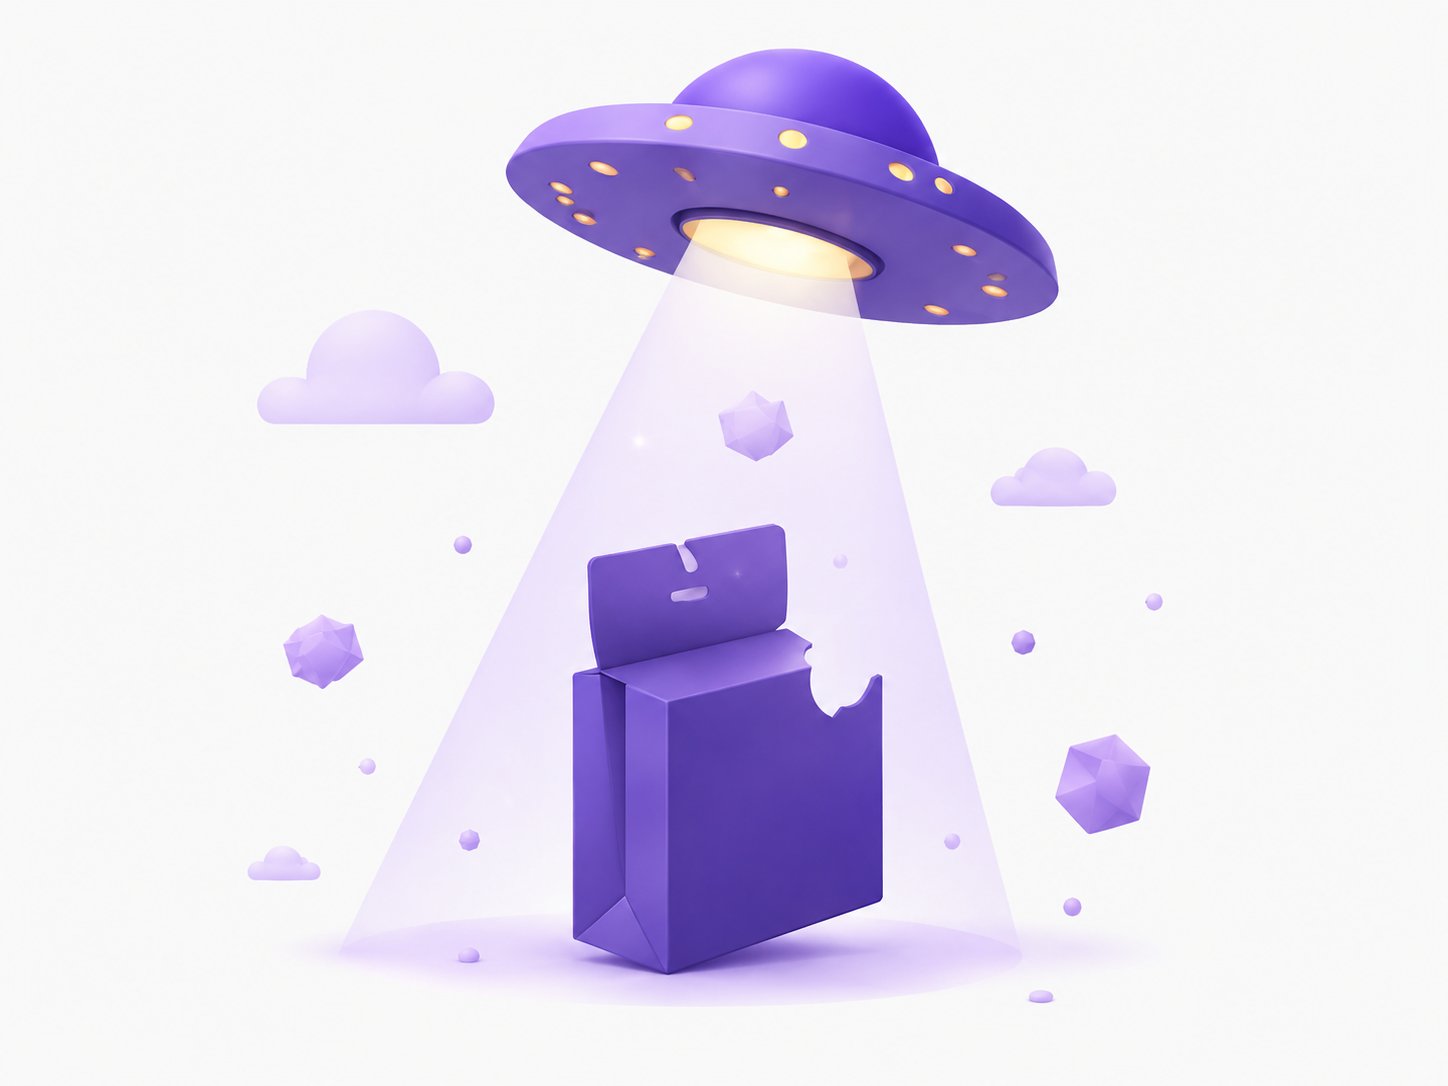
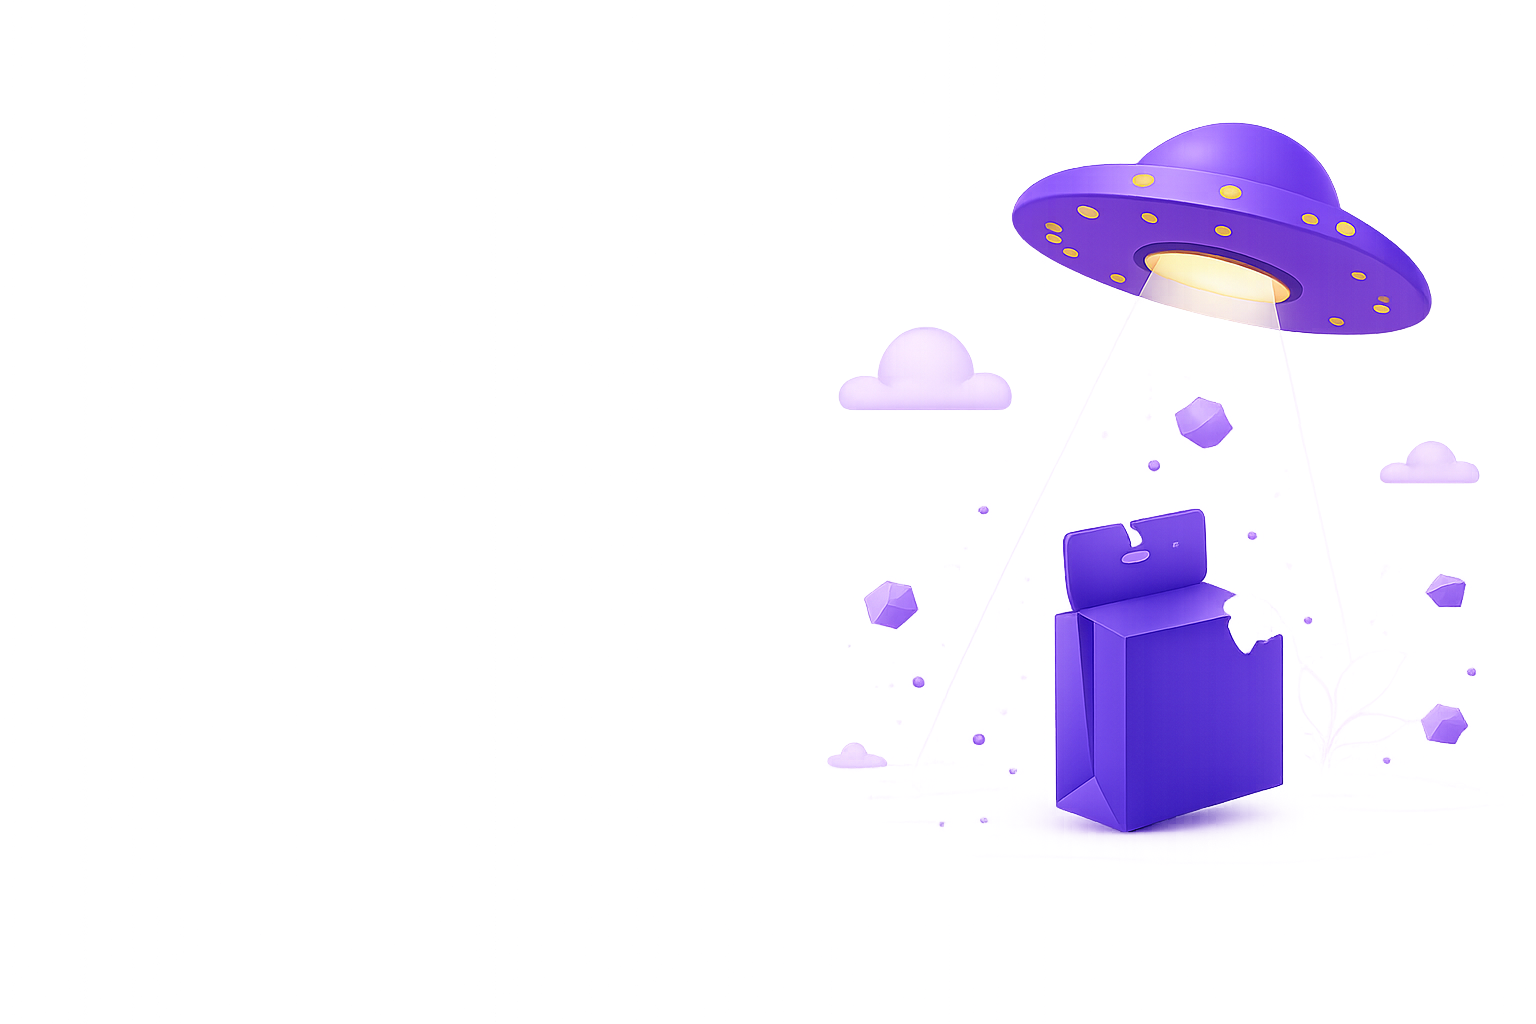
refactor: enhance 404 page layout and styles for improved responsiveness and visual appeal

diff --git a/src/app/pages/not-found/not-found.html b/src/app/pages/not-found/not-found.html
@@ -1,59 +1,62 @@
-<section class="min-h-screen bg-white text-text-primary">
-  <div class="grid min-h-screen grid-cols-1 lg:grid-cols-[40%_60%]">
-    <section class="flex flex-col bg-white px-6 py-5 sm:px-10 lg:px-14">
-      <header>
+<section
+  class="h-screen overflow-hidden bg-[linear-gradient(135deg,#ffffff_0%,#fbf9ff_48%,#f5efff_100%)] text-text-primary"
+>
+  <div class="mx-auto flex h-full w-full max-w-360 flex-col px-8 py-6 lg:px-16">
+    <header class="shrink-0">
+      <a
+        routerLink="/"
+        aria-label="Go to home page"
+        class="inline-flex items-center gap-2 text-sm font-bold text-text-primary no-underline"
+      >
+        <span class="flex h-5 w-5 items-center justify-center rounded bg-primary-main text-white">
+          <mat-icon class="h-4! w-4! text-base!">shopping_bag</mat-icon>
+        </span>
+        <span>ShopFront</span>
+      </a>
+    </header>
+
+    <div class="grid min-h-0 flex-1 items-center gap-4 lg:grid-cols-[38%_62%]">
+      <div class="flex min-w-0 flex-col items-start">
+        <h1
+          class="m-0 flex gap-8 font-sans! text-[7rem]! font-medium! leading-none! tracking-normal! text-text-primary sm:text-[10rem]! lg:text-[10rem]!"
+        >
+          <span>4</span>
+          <span class="text-primary-main">0</span>
+          <span>4</span>
+        </h1>
+
+        <h2 class="mt-8 text-3xl font-black leading-tight text-text-primary sm:text-4xl lg:text-[2.8rem]">
+          Страница не найдена
+        </h2>
+
+        <p class="mt-5! max-w-120 text-base leading-8 text-text-secondary sm:text-lg sm:leading-9">
+          К сожалению, запрашиваемая страница не существует или была удалена.
+        </p>
+
         <a
           routerLink="/"
-          aria-label="Go to home page"
-          class="inline-flex items-center gap-2 text-sm font-bold text-text-primary no-underline"
+          class="mt-10 inline-flex h-14 min-w-[18rem] cursor-pointer items-center justify-center gap-3 rounded-lg bg-primary-main px-8 text-base font-bold text-white no-underline shadow-[0_16px_32px_rgba(109,61,245,0.28)] transition hover:bg-primary-hover active:bg-primary-active"
         >
-          <span class="flex h-5 w-5 items-center justify-center rounded bg-primary-main text-white">
-            <mat-icon class="!h-4 !w-4 !text-base">shopping_bag</mat-icon>
-          </span>
-
-          <span>ShopFront</span>
+          <mat-icon class="h-5! w-5! text-xl!">home</mat-icon>
+          Вернуться на главную
         </a>
-      </header>
+      </div>
 
-      <main class="flex flex-1 items-center">
-        <div class="flex w-full max-w-[25rem] flex-col">
-          <h1 class="mb-8 !text-[7rem] !font-sans !font-bold !leading-none tracking-[-0.08em] text-text-primary sm:!text-[8rem] lg:!text-[9rem]">
-            4<span class="text-primary-main">0</span>4
-          </h1>
-          <div class="flex flex-col gap-6">
-            <h2 class="mt-5 text-4xl font-black leading-tight text-text-primary">
-              Страница не найдена
-            </h2>
+      <div class="relative hidden h-full min-h-0 items-center justify-end overflow-visible lg:flex">
+        <img
+          src="/assets/not-found/not-found-ufo.png"
+          alt="Иллюстрация с летающей тарелкой и коробкой"
+          class="h-auto w-[135%] max-w-none object-contain object-right xl:w-[145%]"
+        />
+      </div>
 
-            <p class="m-0 max-w-[23rem] text-base leading-8 text-text-secondary">
-              К сожалению, запрашиваемая страница не существует или была удалена.
-            </p>
-
-            <a
-              routerLink="/"
-              class="mt-3 inline-flex h-12 w-fit min-w-[13.5rem] items-center justify-center rounded-md bg-primary-main px-7 text-sm font-bold text-white no-underline shadow-[0_12px_24px_rgba(109,61,245,0.22)] transition hover:bg-primary-hover active:bg-primary-active"
-            >
-              Вернуться на главную
-            </a>
-          </div>
-        </div>
-      </main>
-    </section>
-
-    <section class="hidden min-h-screen items-center justify-center overflow-hidden bg-white lg:flex">
-      <img
-        src="/assets/not-found/not-found-ufo.png"
-        alt="Иллюстрация с летающей тарелкой и коробкой"
-        class="h-full w-full object-cover object-center"
-      />
-    </section>
-
-    <section class="flex items-center justify-center px-6 pb-10 lg:hidden">
-      <img
-        src="/assets/not-found/not-found-ufo.png"
-        alt="Иллюстрация с летающей тарелкой и коробкой"
-        class="w-full max-w-[32rem] object-contain"
-      />
-    </section>
+      <div class="mt-8 flex justify-center lg:hidden">
+        <img
+          src="/assets/not-found/not-found-ufo.png"
+          alt="Иллюстрация с летающей тарелкой и коробкой"
+          class="w-full max-w-md object-contain"
+        />
+      </div>
+    </div>
   </div>
 </section>

diff --git a/src/app/pages/not-found/not-found.ts b/src/app/pages/not-found/not-found.ts
@@ -1,6 +1,6 @@
 import { Component } from '@angular/core';
-import { RouterLink } from '@angular/router';
 import { MatIconModule } from '@angular/material/icon';
+import { RouterLink } from '@angular/router';
 
 @Component({
   selector: 'app-not-found',
